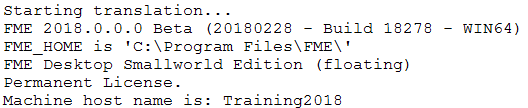
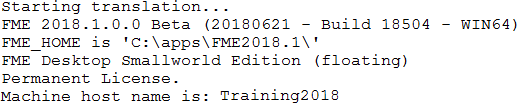
Adv Ch2 2018.1 and Grammarly review + changes for instructor workspaces

diff --git a/DesktopAdvanced2WorkspaceDesign/2.06.LogConfigAndSetupSection.md b/DesktopAdvanced2WorkspaceDesign/2.06.LogConfigAndSetupSection.md
@@ -4,7 +4,7 @@ Configuration and setup messages in the FME log tell us vital information about 
 
 ![](./Images/Img2.004.LogConfigSection.png)
 
-For example, here you can see which version of FME is being used (FME2018, 64-bit), its license type (floating), and the machine name (Training2018). If you do have multiple FME versions installed, here’s where you can check to ensure the correct one is running.
+For example, here you can see which version of FME is being used (FME2018.1 beta, 64-bit), its license type (floating), and the machine name (Training2018). If you do have multiple FME versions installed, here’s where you can check to ensure the correct one is running.
 
 Further on we can see that the system has 5.17 GB of free space in the FME temporary folder and 128 TB of virtual memory. We can also see what operating system we are running FME on (Windows Server 10) and what the current language and encoding settings are:
 
@@ -31,13 +31,13 @@ With 64-bit FME, address space is an impractically high number (128TB in Windows
 
 ### Temporary Folder ###
 
-For performance tuning one of the most important parts of the log reports the temporary folder being used. When physical memory resources become low FME starts to cache data to disk and swap that data in and out of physical memory as required.
+For performance tuning one of the most critical parts of the log reports the temporary folder being used. When physical memory resources become low, FME starts to cache data to disk and swap that data in and out of physical memory as required.
 
 The temporary folder is where it writes data to, so there are two important considerations for that folder.
 
 Firstly it's important to ensure this folder does have enough temporary disk space for the translation being carried out. Depending on the workspace, the transformations being carried out, and other processes happening on the computer; temporary disk space requirements may be many times greater than the size of the original dataset.
 
-Secondly, it's useful if the disk being written to is both fast and unused by any other process. It will not, for example, help performance to share the temporary disk with the operating system; additionally, a solid-state disk is much faster than a traditional hard drive.
+Secondly, it's useful if the disk written to is both fast and unused by any other process. It will not, for example, help performance to share the temporary disk with the operating system; additionally, a solid-state disk is much faster than a traditional hard drive.
 
 ---
 
@@ -55,8 +55,8 @@ Secondly, it's useful if the disk being written to is both fast and unused by an
 <tr>
 <td style="border: 1px solid darkorange">
 <span style="font-family:serif; font-style:italic; font-size:larger">
-The comparative benefits of RAM vs SSD vs HDD are hard to quantify. Do a web search if you don't believe me; people quote RAM as being 4x as fast, 20x as fast, 100,000x as fast! 
-<br><br>In reality it depends on so many factors. But in general, use as much memory as you can to avoid caching, and use SSD so that - where caching/swapping is unavoidable - it runs as fast as possible.
+The comparative benefits of RAM vs. SSD vs. HDD are hard to quantify. Do a web search if you don't believe me; people quote RAM as being 4x as fast, 20x as fast, 100,000x as fast! 
+<br><br>In reality, it depends on so many factors. However, in general, use as much memory as you can to avoid caching, and use SSD so that - where caching/swapping is unavoidable - it runs as fast as possible.
 </span>
 </td>
 </tr>

diff --git a/DesktopAdvanced2WorkspaceDesign/2.04.LogFileInterpretation.md b/DesktopAdvanced2WorkspaceDesign/2.04.LogFileInterpretation.md
@@ -45,7 +45,7 @@ Filtering options allow each type of message to be turned on or off in the log w
 
 ### Log Debug ###
 
-The Log Debug option turns on a series of extra log messages that are usually hidden from the user. Not only will a lot of the underlying mapping file be exposed, there will also be a number of ERROR messages labeled BADNEWS.
+The Log Debug option turns on a series of extra log messages that are usually hidden from the user. Not only will a lot of the underlying mapping file be exposed, but there will also be a number of ERROR messages labeled BADNEWS.
 
 ---
 
@@ -55,7 +55,7 @@ When the log message filters are turned on, the various messages can be toggled 
 
 ![](./Images/Img2.056.ErrorMessageFiltering.png)
 
-In the image above the author is only viewing the error messages. Which makes it easy to see what is causing their translation to fail. 
+In the above image, the author is only viewing the error messages, which makes it easy to see what is causing their translation to fail. 
 
 ---
 
@@ -94,8 +94,8 @@ Toggle messages buttons have been added to the Translation Log Window for FME201
 <tr>
 <td style="border: 1px solid darkorange">
 <span style="font-family:serif; font-style:italic; font-size:larger">
-Debug messages can help during debugging, but it’s very unlikely you’ll want to keep them turned on in general FME use. Many of the BADNEWS messages are “errors” that FME has trapped and kept to itself (like an end-of-file message). 
-<br><br>Also note that the Log Debug setting persists in the workspace; in other words if you turn that setting on and pass the workspace to another user, it will retain the setting and show debug messages when that other user runs the workspace!
+Debug messages can help during debugging, but it’s doubtful you’ll want to keep them turned on in general FME use. Many of the BADNEWS messages are “errors” that FME has trapped and kept to itself (like an end-of-file message). 
+<br><br>Also, note that the Log Debug setting persists in the workspace; in other words, if you turn that setting on and pass the workspace to another user, it retains the setting and shows debug messages when that other user runs the workspace!
 </span>
 </td>
 </tr>
